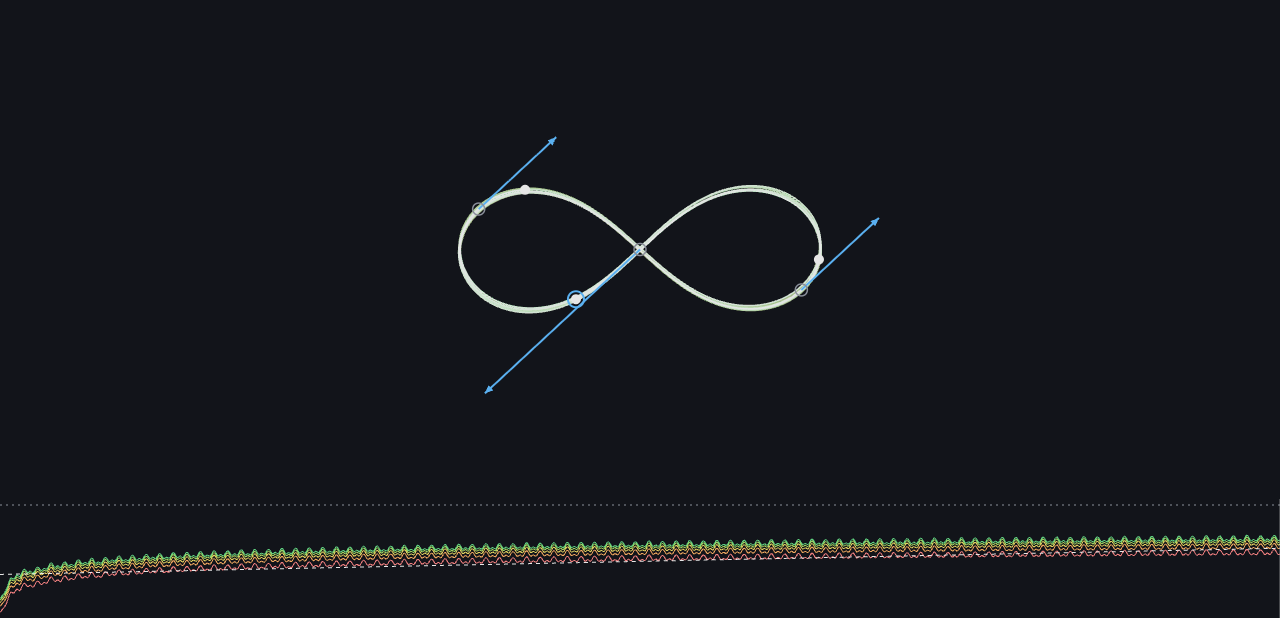
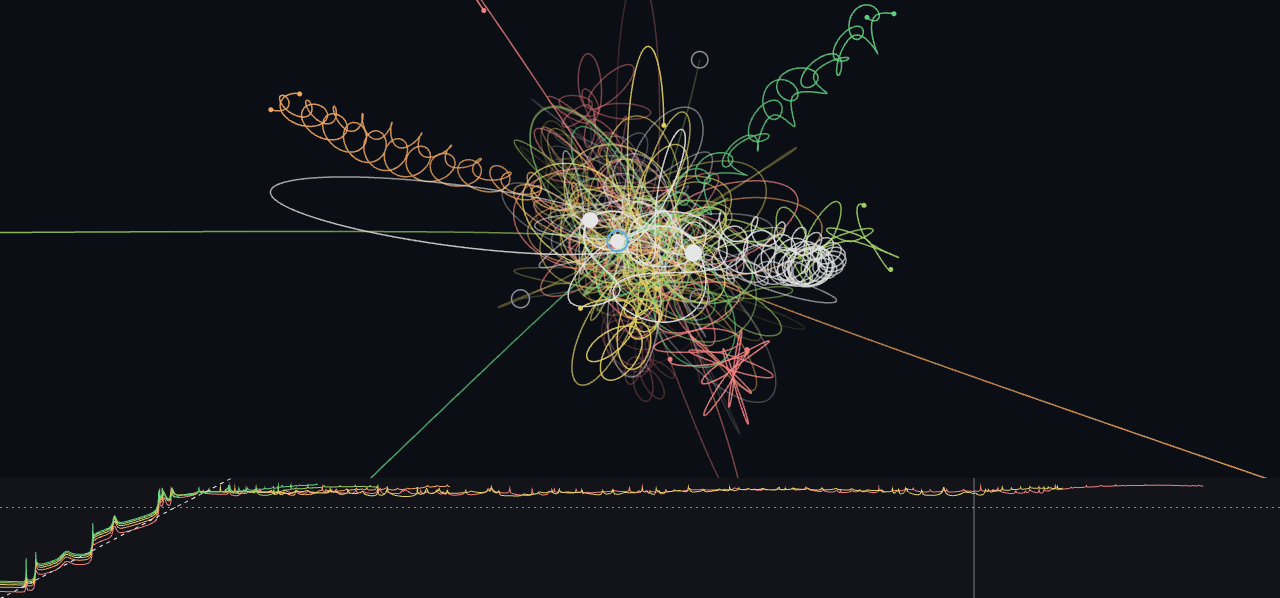
Sync docs for fade sliders; Pythagorean showcase screenshot
README documents the trail-window and fade-strength sliders and leads
the n-body section with the Burrau ejection showcase (new mid-drama
screenshot at t=70, every ghost copy diverging); CLAUDE.md records the
setFade notify-only invariant, clamps, and the drawFadingTrail tailAlpha
parameter.

diff --git a/CLAUDE.md b/CLAUDE.md
@@ -69,8 +69,10 @@ src/
                     that member early; escapers freeze at their last sample)
   state.ts          one Store with subscribe(): scene mutations rebuild the
                     ensemble once, reset playback, bump revision, notify once;
-                    playback/view mutations notify without recompute (rotating
-                    the Lorenz view must never resimulate); nbody selectBody
+                    playback/view/fade mutations notify without recompute
+                    (rotating the Lorenz view or moving the fade sliders must
+                    never resimulate; setFade clamps windowScale to [0.25, 4],
+                    strength to [0, 1]); nbody selectBody
                     recomputes once on a changed index (it retargets the
                     ensemble perturbation), notify-only when unchanged
   ui/
@@ -89,7 +91,9 @@ src/
     draw.ts         COLORS (CSS custom props resolved once at module load),
                     ensembleColor (10 distinct hues, k % length), drawFadingTrail
                     (alpha ramp toward the head; optional windowPts draws only
-                    the trailing window, ~0 -> 0.9), drawTrailMap (uniform faint
+                    the trailing window; optional tailAlpha, default 0.05, sets
+                    the ramp's dim end - scenes map it from fade.strength and
+                    scale windowPts by fade.windowScale), drawTrailMap (uniform faint
                     full-trajectory map for the paused t=0 state),
                     drawDivergenceStrip (log10 d vs t per copy, dashed fit line,
                     playhead; series decimated to ~2 pts/px)
@@ -104,8 +108,9 @@ src/
                     selected body, radius ~ mass^(1/3), per-body trails +
                     ghost copies
   main.ts           SceneRenderer registry, subscribe-driven tab mount/unmount,
-                    shared K and log10(epsilon) rows in the playbar, rAF
-                    playback loop advancing t by dt * speed to the horizon
+                    shared K, log10(epsilon), trail-window and fade-strength
+                    rows in the playbar, rAF playback loop advancing t by
+                    dt * speed to the horizon
 tests/              vitest: sim core, ensemble math, store/scenes, formatters,
                     viewport - pure logic only, no DOM
 ```

diff --git a/README.md b/README.md
@@ -47,15 +47,22 @@ and velocity can be typed exactly and its mass slides; radii scale as
 mass^(1/3). The ensemble perturbs the selected body's position. Energy and
 angular momentum readouts keep the integrator honest.
 
-![gravitational n-body](docs/screenshots/nbody.png)
+The Pythagorean problem is the chaos showcase: three bodies falling from rest
+through repeated close encounters until a binary forms and the third body is
+ejected near t ~ 92. Below, the ensemble mid-drama - every ghost copy, one
+part in a million apart at the start, invents a different ejection:
+
+![Pythagorean three-body problem with diverging ghost copies](docs/screenshots/nbody.png)
 
 Shared everywhere: a K slider (2..10 copies), a log-scale perturbation size,
 and playback (play/pause, reset, scrubber, speeds up to 16x) over long
 precomputed horizons (400 time-units for Lorenz, 300 for the pendulum,
 200..600 per n-body preset). Trails fade with age: the recent stretch stays
 bright while the deep past dims away, and the paused start state shows the
-whole trajectory as a faint map. Scrubbing back to the exact moment the
-copies split costs nothing.
+whole trajectory as a faint map - two sliders control the trail's length
+(x0.25..x4 of the default window) and the fade strength (from uniform
+brightness to fade-to-nothing), instantly, without resimulating. Scrubbing
+back to the exact moment the copies split costs nothing.
 
 ## Quick start
 
